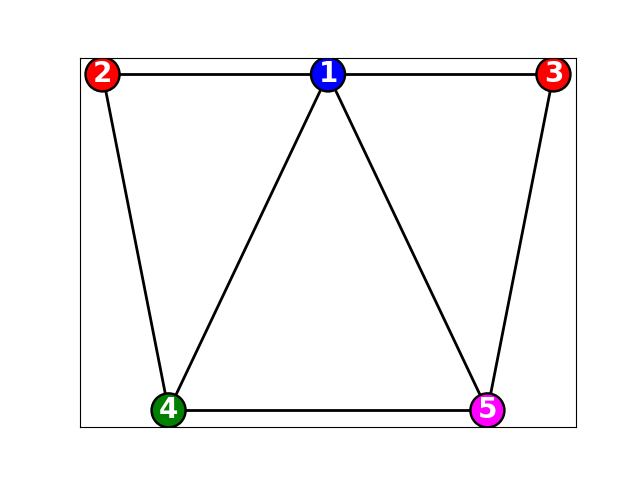
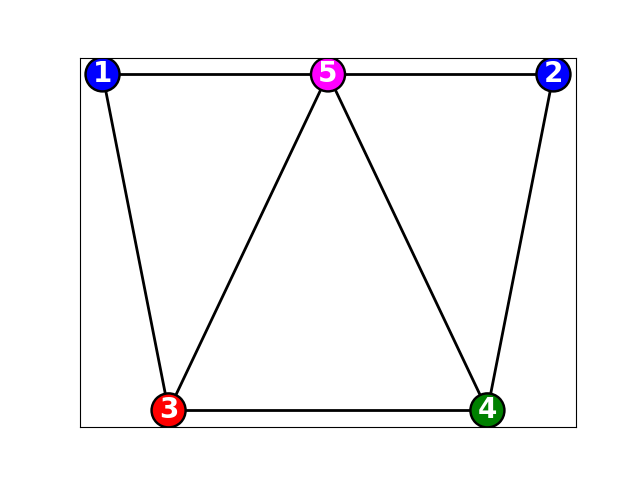
Corrected Bad Ordering
To actually represent aim of the Figure

diff --git a/Code/Importance-Of-Order-Bad-Ordering.py b/Code/Importance-Of-Order-Bad-Ordering.py
@@ -26,7 +26,7 @@ edges = [('A', 'B'), ('A', 'C'), ('A', 'D'), ('A', 'E'), ('B', 'C'), ('C', 'D'),
 G.add_edges_from(edges)
 
 #Define the colouring
-colouring = {'A': 0, 'B': 1, 'C': 2, 'D': 3, 'E': 1}
+colouring = {'A': 3, 'B': 0, 'C': 1, 'D': 2, 'E': 0}
 #Convert to colours
 output_colouring = numerical_to_colours(colouring)
 
@@ -36,7 +36,7 @@ pos = {'A': (0, 0), 'B': (-1, 0), 'C': (-np.sqrt(2)/2, -np.sqrt(2)/2), 'D': (np.
 
 #Labels to represent colouring order
 
-labels = {'A': 1, 'B': 2, 'C': 4, 'D': 5, 'E': 3}
+labels = {'A': 5, 'B': 1, 'C': 3, 'D': 4, 'E': 2}
 
 #Draw the graph
 nx.draw_networkx(G, pos=pos, with_labels=True, node_color=output_colouring, linewidths=1.75, edgecolors="black", width=2, labels=labels, font_color="white", font_weight="heavy", node_size=600, font_size= 20)
